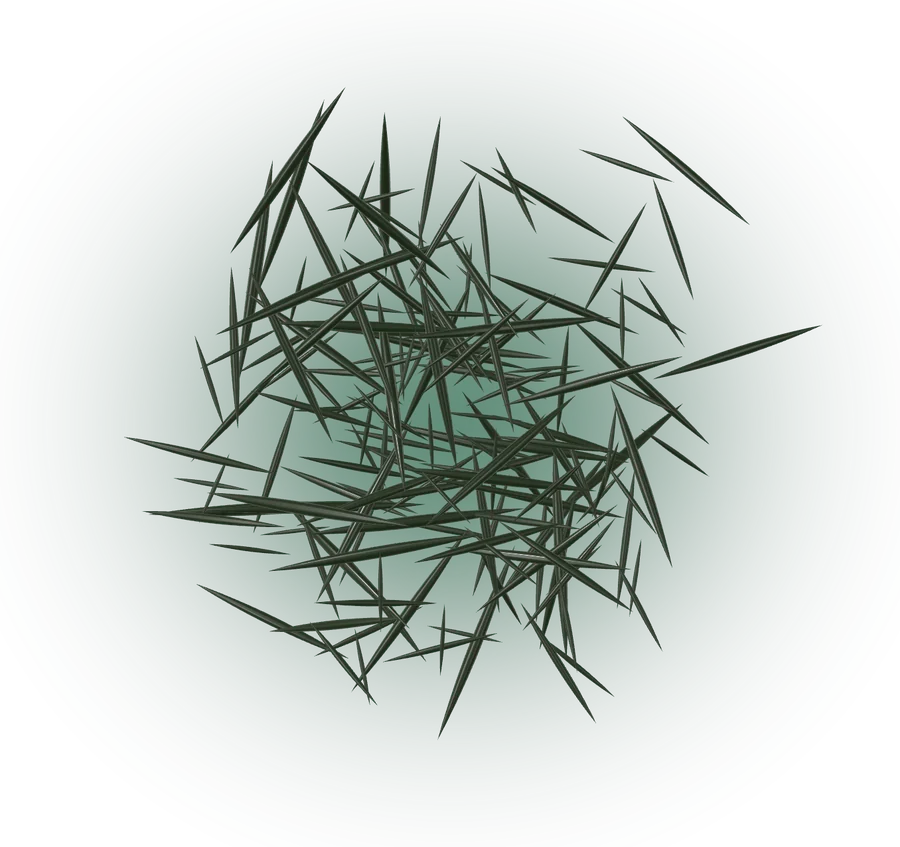
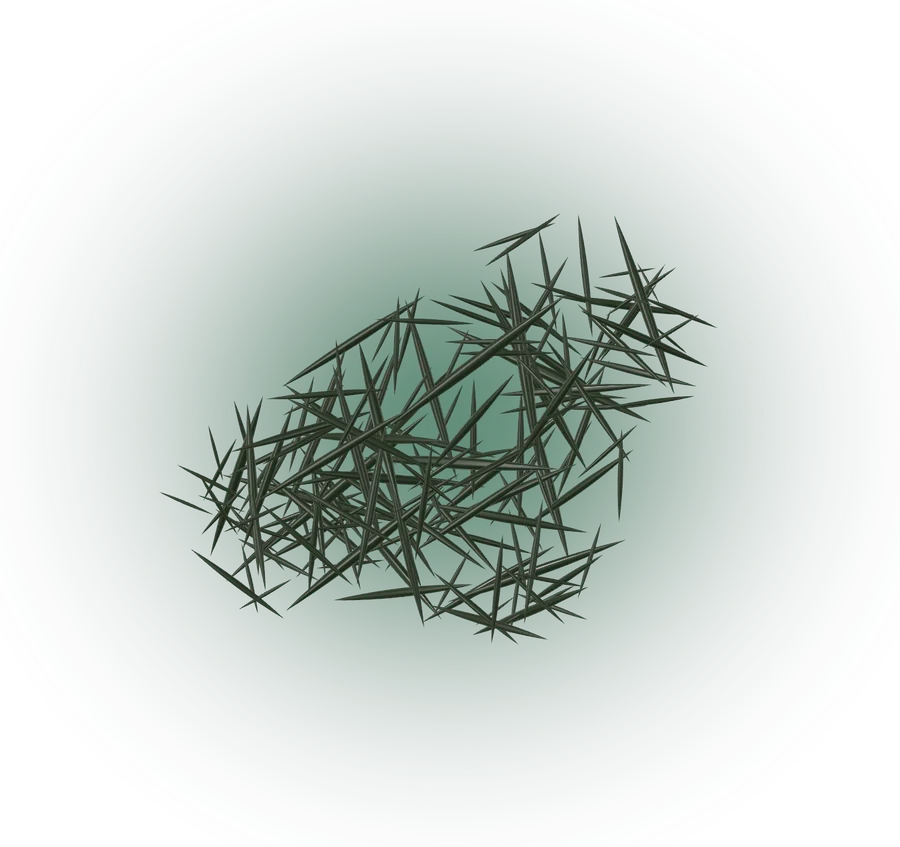
CELLULAR AGE DEFENSE 2.5%: no lone needle crossings, public page staged
The owner's rule (22/10): the scene shows only what exists, and
particles never gather into a drawn figure. The audit found three
things still on this page:

- site/public still held the page from before the drop was removed
  (dd5becf): the S4 serum drop, its 50 suspended spicules and the old
  wreath seed, with m4.webp showing the drop as a ringed outline with
  two highlights and m3.webp the old cloud. The page is rebuilt and
  restaged (index.html, m3, m4; the rest was byte-identical).
- In S3 the cloud turned a full circle every 90 s, so pairs of needles
  at its thin edge kept crossing into a lone X, + or T clear of the
  bunch (desk-s3, and at t = 0 a long needle crossing another at the
  upper-right edge). At a quarter turn the needles also stood end-on,
  short strokes in a column.

Scene changes (scenes/cellular-age-defense-2-5.js):
- seeds: the needles fill the four lobes' envelope (density >= 0.5),
  thinning toward its edge; each lies wholly inside it, shortened till
  both ends are in and placed again if that leaves it under 50 px. No
  stragglers, no stubs to knot at the edge. Same seed and lobes.
- the cloud sways +-20 deg (40 s) instead of turning 360 deg.
- the flight from the print: lag 0.05 instead of 0.4, so no stragglers
  cross apart mid-flight.
- a phone draws all 180 needles: the 90 left the edge too thin.

QA: projected needles checked over the whole sway (180 times) at 15
story positions p 1.15...3.2, desktop and phone, for crossings or tip
[…]

diff --git a/mitoderm-catalog/site/public/cellular-age-defense-2-5/index.html b/mitoderm-catalog/site/public/cellular-age-defense-2-5/index.html
@@ -959,7 +959,7 @@ const THREE = await Promise.race([import('https://cdn.jsdelivr.net/npm/three@0.1
 // scenes/cellular-age-defense-2-5.js, inlined by build-vtech.py
 // CELLULAR AGE DEFENSE 2.5% live in three.js: the product page's scroll story (engine/story.js, option `scene`) drawn as a
 // real 3D scene, as the approved sample EXOTECH GEL (scenes/exotech-gel.js) and the later pages (exo-nad.js: the line's
-// light as soft shapeless glows; micro-boost-10.js: the print as one typeset face texture, the clear glass). The engine
+// light as soft shapeless glows; micro-boost-10.js: the print as one typeset face texture). The engine
 // keeps the story geometry (the cover-fitted 16:10 frame, the run's box, the phone stage, the kit card); this module draws
 // the pose for the story position into the box. Objects are placed by frame pixel (2400×1500) inside the page's scene box
 // (x 168…1248, y 285…1215: the scene left, the copy right), measured on the largest packshot,
@@ -973,9 +973,10 @@ const THREE = await Promise.race([import('https://cdn.jsdelivr.net/npm/three@0.1
 //   S2 why      CELL RENEW 1.5% (its own packshot, the same box) comes in lower left; the 2.5% box higher right
 //   S3 inside   the 1.5% box goes; the camera nears the 2.5% box's medallion, the box fades and its spicules leave the
 //               print: a shapeless cloud of spicules (site/img/spicules-macro.png's needles in the medallion's dark green)
-//               turning slowly in a green haze
-//   S4 feel     the cloud gathers into one clear drop of the serum, a few spicules suspended in it (no skin, no people)
-//   S5 protocol the drop sinks; the 2.5% box (step 1, lower left) and DERMA RECOVERY CREAM (its packshot; step 2, higher
+//               swaying slowly in a green haze (never turned edge-on: its needles keep their length)
+//   S4 feel     the 2.5% box comes back from the dark on the left, the cloud drifts back to its right, smaller (no drop,
+//               no skin, no people)
+//   S5 protocol the cloud goes; the 2.5% box (step 1, lower left) and DERMA RECOVERY CREAM (its packshot; step 2, higher
 //               right), the routine's two products, above the page's step cards; on a phone the pair centred and larger.
 //               On a desktop both go back into the dark as the cards scroll up over the scene, and the 2.5% comes forward
 //               again in the kit's pose once they have passed
@@ -983,7 +984,8 @@ const THREE = await Promise.race([import('https://cdn.jsdelivr.net/npm/three@0.1
 //               offer card
 // Left out from the spec (the owner's rule overrides it): the steps and their gold edges, the blurred floating M, the
 // contact shadow, the enlarged medallion ring and the milky disc behind the field, the five gold peptide threads and the
-// two light particles, the warm surface, the sparks and the ring wave. The boxes never open and turn only as far as the
+// two light particles, the warm surface, the sparks and the ring wave, the drop of serum (none is photographed: the
+// spec's own colour note says the product has no drop of its own). The boxes never open and turn only as far as the
 // packshots show their sides (the 2.5% and 1.5%: their right side, the view angle never above the packshot's 10°;
 // DERMA faces the camera, ≤ 0.5°); their tops stay above the horizon (frame y 601.5) and their feet below it in every
 // frame, so no unphotographed face shows. The products keep their print's colours (emissive ≈ 85 % + neutral shading,
@@ -1119,53 +1121,35 @@ function createScene(THREE, { canvas, base, onLoad }) {
         gl_FragColor.rgb = mix(gl_FragColor.rgb + vec3(0.004, 0.010, 0.002), vec3(0.30, 0.35, 0.25), 0.45 * F); }`);
   };
   spiMat.customProgramCacheKey = () => 'cad25-spicule';
-  const NS = 180, NS_PH = 90, N_IN = 50;   // all, on a phone, suspended in the drop (the first 50: a phone has them too)
+  const NS = 180;   // a phone draws them all too: half of them left the cloud's edge thin enough for lone pairs
   const spicules = new THREE.InstancedMesh(spiGeo, spiMat, NS);
   spicules.instanceMatrix.setUsage(THREE.DynamicDrawUsage); spicules.renderOrder = 30; spicules.frustumCulled = false; spicules.visible = false;
   scene.add(spicules);
-  // their seeds: a soft uneven cloud (four overlapping gaussian lobes, cut within 280 px across and 255 px up and down:
-  // no figure, no edge), an axis leaning into the picture's
-  // plane so the length reads, a length 70…220 px (more short than long), a lag; inside the drop a place and a shorter length
-  const rng = (s => () => { s |= 0; s = s + 0x6d2b79f5 | 0; let t = Math.imul(s ^ s >>> 15, 1 | s); t = t + Math.imul(t ^ t >>> 7, 61 | t) ^ t; return ((t ^ t >>> 14) >>> 0) / 4294967296; })(20261022);
+  // their seeds: a soft uneven cloud with no stragglers. Four overlapping gaussian lobes (one on the centre, so no
+  // hollow opens there and no wreath forms round it) set its body: the needles fill the lobes' envelope (density ≥ 0.5,
+  // within 280 px across and 255 px up and down), thinning toward its edge, and each lies wholly inside it: shortened
+  // till both its ends are in, and placed again if that leaves it under 50 px (no stubs at the edge to knot into a
+  // star). So none sticks out alone and no pair crosses apart from the bunch into a drawn X, + or T (22/10). An axis
+  // leaning into the picture's plane so the length reads, a length 70…220 px (more short than long; 50 at the edge),
+  // a small lag (the needles leave the print together: stragglers in flight crossed apart too)
+  const rng = (s => () => { s |= 0; s = s + 0x6d2b79f5 | 0; let t = Math.imul(s ^ s >>> 15, 1 | s); t = t + Math.imul(t ^ t >>> 7, 61 | t) ^ t; return ((t ^ t >>> 14) >>> 0) / 4294967296; })(20261023);
   const gau = () => Math.sqrt(-2 * Math.log(Math.max(1e-6, rng()))) * Math.cos(2 * Math.PI * rng());
   const unit = (zk) => { let x, y, z, n; do { x = gau(); y = gau(); z = gau() * zk; n = Math.hypot(x, y, z); } while (n < 1e-3 || Math.abs(z) > 0.6 * n); return [x / n, y / n, z / n]; };
-  const LOBES = [[-130, 50, -30, 95], [100, -70, 40, 105], [40, 110, 0, 90], [-40, -120, 60, 80]];   // a drift, not a ball
+  const LOBES = [[-170, 85, -30, 90], [140, -95, 40, 95], [-10, 10, 0, 105], [70, 135, 20, 70]];   // a drift, not a ball
+  const dens = (x, y, z) => LOBES.reduce((a, c) => { const u = (x - c[0]) / c[3], v = (y - c[1]) / (0.9 * c[3]), w = (z - c[2]) / (0.8 * c[3]); return a + Math.exp(-0.5 * (u * u + v * v + w * w)); }, 0);
   const SEED = Array.from({ length: NS }, () => {
-    let o; do { const c = LOBES[Math.floor(rng() * LOBES.length)]; o = [c[0] + gau() * c[3], c[1] + gau() * c[3] * 0.9, c[2] + gau() * c[3] * 0.8]; }
-    while (Math.hypot(o[0], o[2]) > 280 || Math.abs(o[1]) > 255);
-    const L = 70 + 150 * Math.pow(rng(), 1.6);
-    let q; do { q = [rng() * 2 - 1, rng() * 2 - 1, rng() * 2 - 1]; } while (Math.hypot(q[0], q[1], q[2]) > 1);
-    return { o, d: unit(0.4), L, lag: rng() * 0.4, ph: rng() * 6.283, in: q.map(v => v * 0.62), Lin: Math.min(0.45 * L, 0.72),   // Lin: of the drop's R
-      din: unit(0.6), m: [Math.sqrt(rng()) * 0.62, rng() * 6.283, rng() * 6.283, 0.6 + 0.4 * rng()] };   // m: on the medallion: r, angle, axis angle, length
+    let o, d, h; const out = k => dens(o[0] + k * d[0], o[1] + k * d[1], o[2] + k * d[2]) < 0.5;
+    do {
+      let r; do { o = [(rng() * 2 - 1) * 280, (rng() * 2 - 1) * 255, (rng() * 2 - 1) * 280]; r = dens(...o); }
+      while (r < 0.5 || Math.hypot(o[0], o[2]) > 280 || rng() > Math.sqrt(Math.min(1, r)));
+      d = unit(0.4); h = (70 + 150 * Math.pow(rng(), 1.6)) / 2;   // half the length
+      while (h > 25 && (out(h) || out(-h))) h -= 2;
+    } while (out(h) || out(-h));
+    return { o, d, L: 2 * h, lag: rng() * 0.05, ph: rng() * 6.283,
+      m: [Math.sqrt(rng()) * 0.62, rng() * 6.283, rng() * 6.283, 0.6 + 0.4 * rng()] };   // m: on the medallion: r, angle, axis angle, length
   });
-  const FIELD = [680, 750], DROP = [690, 720, 220];   // the cloud's centre (frame px), the drop's centre and radius
-
-  // ---- the drop of serum: clear, without transmission (on the transparent canvas it would not see the page's smoke;
-  // a phone pays a pass for it), no clearcoat (one program on a phone and a desktop alike). Almost no body of its own:
-  // what shows is the studio's bright panels and the key in it (the dim dome's reflection, which ran round the whole
-  // edge as a closed ring, is held back: its threshold rises with the Fresnel term) and a faint light gathered low on
-  // the side away from the key, as a clear drop focuses it; no outline is drawn
-  const glass = (base0, rim, glow) => {
-    const u = { uFade: { value: 1 }, uBase: { value: base0 }, uRim: { value: rim }, uGlow: { value: glow } };
-    const m = new THREE.MeshPhysicalMaterial({ color: 0x000000, metalness: 0, roughness: 0.22, specularIntensity: 1,
-      envMapIntensity: 1.3, transparent: true, depthWrite: false, toneMapped: false });
-    m.onBeforeCompile = sh => {
-      Object.assign(sh.uniforms, u);
-      sh.fragmentShader = 'uniform float uFade, uBase, uRim, uGlow;\n' + sh.fragmentShader.replace('#include <opaque_fragment>', `#include <opaque_fragment>
-        { float c = clamp(abs(dot(normal, normalize(vViewPosition))), 0.0, 1.0), F = pow(1.0 - c, 3.0);
-          vec3 spec = gl_FragColor.rgb; float k = smoothstep(0.05 + 0.4 * F, 0.22 + 0.8 * F, max(max(spec.r, spec.g), spec.b));
-          spec *= k;   // the panels and the key only
-          float body = uBase + uRim * F * k + uGlow * pow(max(dot(normal, vec3(0.45, -0.6, 0.66)), 0.0), 4.0) * (1.0 - F);
-          float a = clamp(body + 0.9 * max(max(spec.r, spec.g), spec.b), 0.0, 0.95);
-          gl_FragColor = vec4((spec + vec3(0.93, 0.95, 0.94) * body) / max(a, 1e-3), a * uFade); }`);
-    };
-    m.customProgramCacheKey = () => 'cad25-glass'; m.userData.u = u; return m;
-  };
-  const dropBack = glass(0, 0.1, 0), dropFront = glass(0, 0.25, 0.1);
-  dropBack.side = THREE.BackSide; dropFront.side = THREE.FrontSide;
-  const dropGeo = new THREE.SphereGeometry(1, 64, 48);
-  const dropB = new THREE.Mesh(dropGeo, dropBack), dropF = new THREE.Mesh(dropGeo, dropFront);
-  dropB.renderOrder = 20; dropF.renderOrder = 50; dropB.visible = dropF.visible = false; scene.add(dropB, dropF);
+  // the cloud's centre (frame px) and scale: S3 close in the middle, S4 back to the right of the box
+  const FIELD = [680, 750, 1], FIELD4 = [870, 690, 0.6];
 
   // ---- the line's light, flat to the camera in frame pixels (a plane far behind; local x = px − 1200, y = 750 − py),
   // drawn first: soft shapeless glows, nothing drawn. Each glow adds its colour (× its alpha) and keeps a true alpha, a
@@ -1192,14 +1176,14 @@ function createScene(THREE, { canvas, base, onLoad }) {
     const u = m.material.uniforms; u.uS.value.set(cx, cy, rx, ry); u.uB.value.set(cx - rx, cy - ry, cx + rx, cy + ry); u.uA.value = a; m.visible = a > 0.004;
   };
   const glows = [spot(1), spot(1), spot(1)];   // behind each box shown (the 2.5%, the 1.5%, DERMA)
-  const haze = spot(2);                        // behind the spicules' cloud and the drop
+  const haze = spot(2);                        // behind the spicules' cloud
 
   // ---- poses (frame px). A box [cx, cy: its front's middle, H: its front's height]; every top above the horizon
   // (601.5) and every foot below it in every frame (the poses and their straight mixes keep them so). Where the 2.5%
   // box stands opaque its front is at most 637 frame px tall: 1019 px in a 3840 key (a 1920 px wide screen at DPR 2),
   // the packshot's own front, so its medallion (the print's picture, from the photo) is never drawn above the photo's
   // pixels; a larger box waits for the packaging's print file
-  const HERO = [[660, 700, 637], [800, 700, 560], null, null, [420, 555, 430], [680, 740, 637]];
+  const HERO = [[660, 700, 637], [800, 700, 560], null, [440, 700, 600], [420, 555, 430], [680, 740, 637]];
   // S5, the routine's two products: the 2.5% (step 1) lower left, DERMA (step 2) higher right, its foot 0.17 of the
   // 2.5%'s height above the 2.5%'s foot. DERMA: 0.65 of the 2.5% box's height (assumed)
   const RENEW = [450, 810, 560], DERMA = [700, 555, 280];
@@ -1211,14 +1195,15 @@ function createScene(THREE, { canvas, base, onLoad }) {
   // the kit's glow (S6–S7 and the offer card's picture, which is cut to what has alpha): within the box's height, about
   // twice its width, so the card's picture is the box in its light, not a narrow strip in an empty card
   const KIT_GLOW = 0.6;
-  const ST = { hero: [0, 0, 0, 0], renew: [0, 0, 0, 0], derma: [0, 0, 0, 0], mode: 0, e: 0, g: 0, o: 0, drop: [0, 0, 0, 0],
-    glow: [0, 0, 0], haze: 0, hazeAt: [0, 0, 0, 0] };   // mode: 0 none, 1 leaving the medallion (e), 2 the cloud gathering into the drop (g), 3 in the drop
+  const ST = { hero: [0, 0, 0, 0], renew: [0, 0, 0, 0], derma: [0, 0, 0, 0], mode: 0, e: 0, o: 0, cloud: [0, 0, 1],
+    glow: [0, 0, 0], haze: 0, hazeAt: [0, 0, 0, 0] };   // mode: 0 none, 1 leaving the medallion (e), 2 the cloud (at `cloud`: x, y, scale)
   const set4 = (o, x, y, H, a) => { o[0] = x; o[1] = y; o[2] = H; o[3] = a; return o; };
   const mixPose = (o, A, B, s, a) => set4(o, lerp(A[0], B[0], s), lerp(A[1], B[1], s), lerp(A[2], B[2], s), a);
+  const setCloud = (A, B, s) => { const c = ST.cloud; for (let i = 0; i < 3; i++) c[i] = lerp(A[i], B[i], s); return c; };
   function story(p, ph) {
     const k = Math.min(4, Math.floor(p)), f = p - k, st = ST, H4 = ph ? HERO4_PH : HERO[4], DM = ph ? DERMA_PH : DERMA;
-    set4(st.hero, 0, 0, 1, 0); set4(st.renew, 0, 0, 1, 0); set4(st.derma, 0, 0, 1, 0); set4(st.drop, DROP[0], DROP[1], DROP[2], 0);
-    st.mode = 0; st.e = st.g = st.o = 0; st.glow[0] = st.glow[1] = st.glow[2] = 0; st.haze = 0;
+    set4(st.hero, 0, 0, 1, 0); set4(st.renew, 0, 0, 1, 0); set4(st.derma, 0, 0, 1, 0); setCloud(FIELD, FIELD, 0);
+    st.mode = 0; st.e = st.o = 0; st.glow[0] = st.glow[1] = st.glow[2] = 0; st.haze = 0;
     if (p >= 5) { mixPose(st.hero, HERO[5], HERO[5], 0, 1); st.glow[0] = KIT_GLOW; return st; }   // the kit: exactly the pose
     if (k === 0) {   // S1 → S2: the 2.5% box steps back and up right; the 1.5% comes in from the left, from the dark
       mixPose(st.hero, HERO[0], HERO[1], smooth(0.05, 0.8, f), 1);
@@ -1234,18 +1219,19 @@ function createScene(THREE, { canvas, base, onLoad }) {
       st.mode = 1; st.e = clamp((f - 0.12) / 0.7); st.o = st.e > 0 ? 1 : 0;   // they leave while the box is still there
       st.glow[0] = 0.55 * (1 - smooth(0, 0.4, f)); st.glow[1] = 0.55 * (1 - s);
       st.haze = 0.75 * smooth(0.35, 1, f); set4(st.hazeAt, FIELD[0], FIELD[1], 480, 450);
-    } else if (k === 2) {   // S3 → S4: the cloud gathers into a clear drop: fifty spicules stay suspended in it, the rest go in
-      st.mode = 2; st.g = f; st.o = 1;
-      const a = smooth(0.3, 0.75, f); set4(st.drop, DROP[0], DROP[1], DROP[2] * (0.75 + 0.25 * smooth(0.3, 0.9, f)), a);
-      st.haze = 0.75; set4(st.hazeAt, lerp(FIELD[0], DROP[0], f), lerp(FIELD[1], DROP[1], f), lerp(480, 400, f), lerp(450, 400, f));
-    } else if (k === 3) {   // S4 → S5: the drop sinks and goes; the 2.5% box and DERMA come in from the dark, side by side
-      const s = smooth(0, 0.35, f); st.mode = 3; st.o = 1 - s;
-      set4(st.drop, DROP[0], DROP[1] + 100 * s, DROP[2], 1 - s);
-      st.haze = 0.75 * (1 - s); set4(st.hazeAt, DROP[0], DROP[1] + 100 * s, 400, 400);
-      const h = smooth(0.3, 0.7, f), d = smooth(0.45, 0.8, f);
-      set4(st.hero, H4[0], H4[1], H4[2] * (0.9 + 0.1 * h), h);
+    } else if (k === 2) {   // S3 → S4: the cloud drifts back to the right, smaller; then the 2.5% box comes back from the
+      // dark on its left (clear of the cloud: the box enters once the cloud has moved)
+      const s = smooth(0, 0.6, f), h = smooth(0.4, 0.9, f), c = setCloud(FIELD, FIELD4, s);
+      st.mode = 2; st.o = 1;
+      set4(st.hero, HERO[3][0] - 100 * (1 - h), HERO[3][1], HERO[3][2], h); st.glow[0] = 0.6 * h;
+      st.haze = lerp(0.75, 0.5, s); set4(st.hazeAt, c[0], c[1], 480 * c[2], 450 * c[2]);
+    } else if (k === 3) {   // S4 → S5: the cloud fades where it is; the 2.5% box takes step 1 and DERMA comes in from the dark
+      const s = smooth(0, 0.35, f), d = smooth(0.45, 0.8, f), c = setCloud(FIELD4, FIELD4, 0);
+      st.mode = 2; st.o = 1 - s;
+      st.haze = 0.5 * (1 - s); set4(st.hazeAt, c[0], c[1], 480 * c[2], 450 * c[2]);
+      const m = smooth(0.1, 0.7, f); mixPose(st.hero, HERO[3], H4, m, 1);
       set4(st.derma, DM[0], DM[1], DM[2] * (0.9 + 0.1 * d), d);
-      st.glow[0] = 0.5 * smooth(0.5, 1, f); st.glow[2] = 0.5 * smooth(0.6, 1, f);
+      st.glow[0] = lerp(0.6, 0.5, m); st.glow[2] = 0.5 * smooth(0.6, 1, f);
     } else if (ph) {   // S5 → kit on a phone (the copy scrolls under the stage): both hold, DERMA goes, the 2.5% comes forward
       const d = smooth(0.45, 0.7, f); set4(st.derma, DM[0], DM[1], DM[2] * (1 - 0.1 * d), 1 - d);
       mixPose(st.hero, H4, HERO[5], smooth(0.5, 1, f), 1);
@@ -1276,23 +1262,14 @@ function createScene(THREE, { canvas, base, onLoad }) {
   const local = (B, x, y, z, out) => frameOf(tmp.set(x, y, z).applyMatrix4(B.g.matrixWorld), out);
   // the instances: a spindle's matrix from its middle, its axis (unit), its length and width (world units)
   const qa = new THREE.Quaternion(), Y = new V3(0, 1, 0), sc = new V3(), mat4 = new THREE.Matrix4();
-  const pos = new V3(), dir = new V3(), p0 = new V3(), d0 = new V3(), p1 = new V3(), d1 = new V3(), cen = new V3(), mq = new THREE.Quaternion();
-  const ends = { n: 0, box: [0, 0, 0, 0] };   // QA: the cloud's projected tips, the last frame drawn
-  function inField(s, phi, t, live, P, Dv) {   // a spicule in the cloud, turning about the upright through its centre
-    const c = Math.cos(phi), sn = Math.sin(phi), u = world(1, D_FIELD), bob = 4 * Math.sin(t * 0.7 + s.ph) * live;
+  const pos = new V3(), dir = new V3(), p0 = new V3(), d0 = new V3(), p1 = new V3(), d1 = new V3(), mq = new THREE.Quaternion();
+  function inField(s, phi, t, live, P, Dv) {   // a spicule in the cloud, turned by phi about the upright through its centre
+    const C = ST.cloud, c = Math.cos(phi), sn = Math.sin(phi), u = world(1, D_FIELD) * C[2], bob = 4 * Math.sin(t * 0.7 + s.ph) * live;
     const ox = s.o[0] * c + s.o[2] * sn, oz = -s.o[0] * sn + s.o[2] * c;
-    at(FIELD[0], FIELD[1], D_FIELD, P); P.addScaledVector(RIGHT, ox * u).addScaledVector(UP, -(s.o[1] + bob) * u).addScaledVector(BACK, oz * u);
+    at(C[0], C[1], D_FIELD, P); P.addScaledVector(RIGHT, ox * u).addScaledVector(UP, -(s.o[1] + bob) * u).addScaledVector(BACK, oz * u);
     const dx = s.d[0] * c + s.d[2] * sn, dz = -s.d[0] * sn + s.d[2] * c;
     Dv.set(0, 0, 0).addScaledVector(RIGHT, dx).addScaledVector(UP, -s.d[1]).addScaledVector(BACK, dz).normalize();
     return s.L * u;
-  }
-  function inDrop(s, phi, P, Dv, dy) {   // a spicule suspended in the drop, turning with it
-    const c = Math.cos(phi), sn = Math.sin(phi), R = ST.drop[2], u = world(1, D_FIELD);
-    const ox = (s.in[0] * c + s.in[2] * sn) * R, oz = (-s.in[0] * sn + s.in[2] * c) * R;
-    at(DROP[0], DROP[1] + dy, D_FIELD, P); P.addScaledVector(RIGHT, ox * u).addScaledVector(UP, -s.in[1] * R * u).addScaledVector(BACK, oz * u);
-    const dx = s.din[0] * c + s.din[2] * sn, dz = -s.din[0] * sn + s.din[2] * c;
-    Dv.set(0, 0, 0).addScaledVector(RIGHT, dx).addScaledVector(UP, -s.din[1]).addScaledVector(BACK, dz).normalize();
-    return s.Lin * R * u;
   }
   function onPrint(s, P, Dv) {   // a spicule lying on the 2.5% box's medallion, as printed
     const r = s.m[0] * MED[2], x = (MED[0] - 0.5) * BW + r * Math.cos(s.m[1]), y = (0.5 - MED[1]) + r * Math.sin(s.m[1]);
@@ -1312,38 +1289,20 @@ function createScene(THREE, { canvas, base, onLoad }) {
       if (a > 0.004 && B.g.visible) setSpot(glows[i], B.x, B.y, 1.9 * B.W * B.H, 0.62 * B.H, a); else glows[i].visible = false;
     }
     setSpot(haze, st.hazeAt[0], st.hazeAt[1], st.hazeAt[2], st.hazeAt[3], st.haze);
-    // the drop
-    const dr = st.drop[2], da = st.drop[3];
-    dropB.visible = dropF.visible = da > 0.004;
-    if (dropB.visible) {
-      at(st.drop[0], st.drop[1], D_FIELD, dropB.position); dropF.position.copy(dropB.position);
-      const R = world(dr, D_FIELD), w = 0.012 * Math.sin(t * 1.3) * live;
-      dropB.scale.set(R * (1 + w), R * (1.05 - w), R * (1 + w)); dropF.scale.copy(dropB.scale);
-      dropBack.userData.u.uFade.value = dropFront.userData.u.uFade.value = da;
-    }
     // the spicules
     spicules.visible = st.mode > 0 && st.o > 0.004;
-    ends.n = 0; ends.box[0] = ends.box[1] = Infinity; ends.box[2] = ends.box[3] = -Infinity;
     if (spicules.visible) {
-      const n = ph ? NS_PH : NS, phi = live * t * 2 * Math.PI / 90, phiD = live * t * 2 * Math.PI / 40, dy = st.drop[1] - DROP[1];
+      // the cloud sways ±20° about its upright (40 s): a full turn showed its needles end-on, short strokes in a column
+      const n = NS, phi = live * rad(20) * Math.sin(t * 2 * Math.PI / 40);
       spiMat.opacity = st.o; spicules.count = n;
       for (let i = 0; i < n; i++) {
-        const s = SEED[i], inner = i < N_IN;
+        const s = SEED[i];
         let L, vis = 1;
         if (st.mode === 1) {
           const q = smooth(0, 1, (st.e - s.lag) / 0.6);
           const La = onPrint(s, p0, d0), Lb = inField(s, phi, t, live, p1, d1);
           pos.lerpVectors(p0, p1, q); dir.lerpVectors(d0, d1, q).normalize(); L = lerp(La, Lb, q); vis = smooth(0, 0.12, q);
-        } else if (st.mode === 2) {
-          const g = smooth(0, 1, (st.g - 0.05 - s.lag * 0.5) / 0.55);
-          const La = inField(s, phi, t, live, p0, d0);
-          let Lb = 0;
-          if (inner) Lb = inDrop(s, phiD, p1, d1, dy); else { at(DROP[0], DROP[1], D_FIELD, p1); d1.copy(d0); }
-          pos.lerpVectors(p0, p1, g); dir.lerpVectors(d0, d1, g).normalize(); L = lerp(La, Lb, g); vis = inner ? 1 : 1 - smooth(0.55, 1, g);
-        } else {
-          if (!inner) { mat4.makeScale(0, 0, 0); spicules.setMatrixAt(i, mat4); continue; }
-          L = inDrop(s, phiD, pos, dir, dy);
-        }
+        } else L = inField(s, phi, t, live, pos, dir);
         L *= vis;
         if (L < 1e-5) { mat4.makeScale(0, 0, 0); spicules.setMatrixAt(i, mat4); continue; }
         qa.setFromUnitVectors(Y, dir); sc.set(L / 18, L, L / 18); mat4.compose(pos, qa, sc); spicules.setMatrixAt(i, mat4);
@@ -1431,7 +1390,6 @@ function createScene(THREE, { canvas, base, onLoad }) {
   const state = () => ({ quality: pr, cap, capped, pixelRatio: renderer.getPixelRatio(), width: canvas.width, height: canvas.height, renders, loaded,
     version, kits, lastP, horizon: r1(HORIZON), hero: boxState(hero), renew: boxState(renew), derma: boxState(derma),
     field: { n: last.n, o: r2(spicules.visible ? spiMat.opacity : 0), bbox: cloudBox() },
-    drop: dropB.visible ? { x: r1(ST.drop[0]), y: r1(ST.drop[1]), R: r1(ST.drop[2]), a: r2(ST.drop[3]) } : null,
     glow: glows.map(g => r2(g.visible ? g.material.uniforms.uA.value : 0)), haze: r2(haze.visible ? haze.material.uniforms.uA.value : 0),
     probes: { hero: probes(hero, [0.30, 0.70, 0.47, 0.505], [0.10, 0.90, 0.335, 0.352]), renew: probes(renew, [0.30, 0.70, 0.485, 0.51], [0.06, 0.20, 0.30, 0.34]),
       derma: probes(derma, [0.05, 0.25, 0.58, 0.72], [0.03, 0.11, 0.37, 0.46]) } });

diff --git a/mitoderm-catalog/site/proto/scenes/cellular-age-defense-2-5.js b/mitoderm-catalog/site/proto/scenes/cellular-age-defense-2-5.js
@@ -14,7 +14,7 @@
 //   S2 why      CELL RENEW 1.5% (its own packshot, the same box) comes in lower left; the 2.5% box higher right
 //   S3 inside   the 1.5% box goes; the camera nears the 2.5% box's medallion, the box fades and its spicules leave the
 //               print: a shapeless cloud of spicules (site/img/spicules-macro.png's needles in the medallion's dark green)
-//               turning slowly in a green haze
+//               swaying slowly in a green haze (never turned edge-on: its needles keep their length)
 //   S4 feel     the 2.5% box comes back from the dark on the left, the cloud drifts back to its right, smaller (no drop,
 //               no skin, no people)
 //   S5 protocol the cloud goes; the 2.5% box (step 1, lower left) and DERMA RECOVERY CREAM (its packshot; step 2, higher
@@ -162,22 +162,31 @@ export function createScene(THREE, { canvas, base, onLoad }) {
         gl_FragColor.rgb = mix(gl_FragColor.rgb + vec3(0.004, 0.010, 0.002), vec3(0.30, 0.35, 0.25), 0.45 * F); }`);
   };
   spiMat.customProgramCacheKey = () => 'cad25-spicule';
-  const NS = 180, NS_PH = 90;   // all, on a phone
+  const NS = 180;   // a phone draws them all too: half of them left the cloud's edge thin enough for lone pairs
   const spicules = new THREE.InstancedMesh(spiGeo, spiMat, NS);
   spicules.instanceMatrix.setUsage(THREE.DynamicDrawUsage); spicules.renderOrder = 30; spicules.frustumCulled = false; spicules.visible = false;
   scene.add(spicules);
-  // their seeds: a soft uneven cloud (four overlapping gaussian lobes, one of them on the centre so no hollow opens
-  // there and no wreath forms round it, cut within 280 px across and 255 px up and down: no figure, no edge), an axis
-  // leaning into the picture's plane so the length reads, a length 70…220 px (more short than long), a lag
+  // their seeds: a soft uneven cloud with no stragglers. Four overlapping gaussian lobes (one on the centre, so no
+  // hollow opens there and no wreath forms round it) set its body: the needles fill the lobes' envelope (density ≥ 0.5,
+  // within 280 px across and 255 px up and down), thinning toward its edge, and each lies wholly inside it: shortened
+  // till both its ends are in, and placed again if that leaves it under 50 px (no stubs at the edge to knot into a
+  // star). So none sticks out alone and no pair crosses apart from the bunch into a drawn X, + or T (22/10). An axis
+  // leaning into the picture's plane so the length reads, a length 70…220 px (more short than long; 50 at the edge),
+  // a small lag (the needles leave the print together: stragglers in flight crossed apart too)
   const rng = (s => () => { s |= 0; s = s + 0x6d2b79f5 | 0; let t = Math.imul(s ^ s >>> 15, 1 | s); t = t + Math.imul(t ^ t >>> 7, 61 | t) ^ t; return ((t ^ t >>> 14) >>> 0) / 4294967296; })(20261023);
   const gau = () => Math.sqrt(-2 * Math.log(Math.max(1e-6, rng()))) * Math.cos(2 * Math.PI * rng());
   const unit = (zk) => { let x, y, z, n; do { x = gau(); y = gau(); z = gau() * zk; n = Math.hypot(x, y, z); } while (n < 1e-3 || Math.abs(z) > 0.6 * n); return [x / n, y / n, z / n]; };
   const LOBES = [[-170, 85, -30, 90], [140, -95, 40, 95], [-10, 10, 0, 105], [70, 135, 20, 70]];   // a drift, not a ball
+  const dens = (x, y, z) => LOBES.reduce((a, c) => { const u = (x - c[0]) / c[3], v = (y - c[1]) / (0.9 * c[3]), w = (z - c[2]) / (0.8 * c[3]); return a + Math.exp(-0.5 * (u * u + v * v + w * w)); }, 0);
   const SEED = Array.from({ length: NS }, () => {
-    let o; do { const c = LOBES[Math.floor(rng() * LOBES.length)]; o = [c[0] + gau() * c[3], c[1] + gau() * c[3] * 0.9, c[2] + gau() * c[3] * 0.8]; }
-    while (Math.hypot(o[0], o[2]) > 280 || Math.abs(o[1]) > 255);
-    const L = 70 + 150 * Math.pow(rng(), 1.6);
-    return { o, d: unit(0.4), L, lag: rng() * 0.4, ph: rng() * 6.283,
+    let o, d, h; const out = k => dens(o[0] + k * d[0], o[1] + k * d[1], o[2] + k * d[2]) < 0.5;
+    do {
+      let r; do { o = [(rng() * 2 - 1) * 280, (rng() * 2 - 1) * 255, (rng() * 2 - 1) * 280]; r = dens(...o); }
+      while (r < 0.5 || Math.hypot(o[0], o[2]) > 280 || rng() > Math.sqrt(Math.min(1, r)));
+      d = unit(0.4); h = (70 + 150 * Math.pow(rng(), 1.6)) / 2;   // half the length
+      while (h > 25 && (out(h) || out(-h))) h -= 2;
+    } while (out(h) || out(-h));
+    return { o, d, L: 2 * h, lag: rng() * 0.05, ph: rng() * 6.283,
       m: [Math.sqrt(rng()) * 0.62, rng() * 6.283, rng() * 6.283, 0.6 + 0.4 * rng()] };   // m: on the medallion: r, angle, axis angle, length
   });
   // the cloud's centre (frame px) and scale: S3 close in the middle, S4 back to the right of the box
@@ -295,7 +304,7 @@ export function createScene(THREE, { canvas, base, onLoad }) {
   // the instances: a spindle's matrix from its middle, its axis (unit), its length and width (world units)
   const qa = new THREE.Quaternion(), Y = new V3(0, 1, 0), sc = new V3(), mat4 = new THREE.Matrix4();
   const pos = new V3(), dir = new V3(), p0 = new V3(), d0 = new V3(), p1 = new V3(), d1 = new V3(), mq = new THREE.Quaternion();
-  function inField(s, phi, t, live, P, Dv) {   // a spicule in the cloud, turning about the upright through its centre
+  function inField(s, phi, t, live, P, Dv) {   // a spicule in the cloud, turned by phi about the upright through its centre
     const C = ST.cloud, c = Math.cos(phi), sn = Math.sin(phi), u = world(1, D_FIELD) * C[2], bob = 4 * Math.sin(t * 0.7 + s.ph) * live;
     const ox = s.o[0] * c + s.o[2] * sn, oz = -s.o[0] * sn + s.o[2] * c;
     at(C[0], C[1], D_FIELD, P); P.addScaledVector(RIGHT, ox * u).addScaledVector(UP, -(s.o[1] + bob) * u).addScaledVector(BACK, oz * u);
@@ -324,7 +333,8 @@ export function createScene(THREE, { canvas, base, onLoad }) {
     // the spicules
     spicules.visible = st.mode > 0 && st.o > 0.004;
     if (spicules.visible) {
-      const n = ph ? NS_PH : NS, phi = live * t * 2 * Math.PI / 90;
+      // the cloud sways ±20° about its upright (40 s): a full turn showed its needles end-on, short strokes in a column
+      const n = NS, phi = live * rad(20) * Math.sin(t * 2 * Math.PI / 40);
       spiMat.opacity = st.o; spicules.count = n;
       for (let i = 0; i < n; i++) {
         const s = SEED[i];
